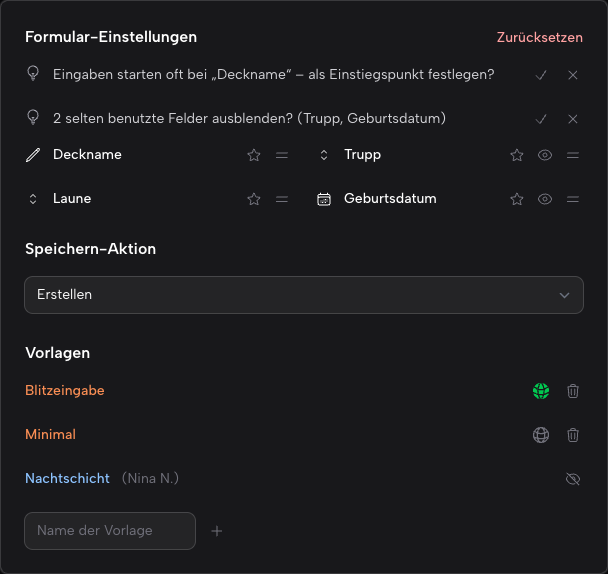
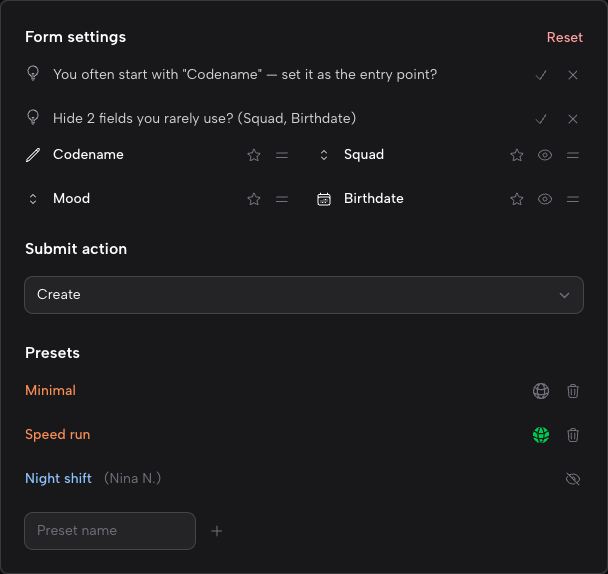
English README screenshot; restore optIn comment wording

diff --git a/README.md b/README.md
@@ -22,7 +22,7 @@ use Blemli\FormSettings\FormSettingsPlugin;
 
 $panel->plugin(
     FormSettingsPlugin::make()
-        ->optIn()      // dont show the gear anywhere except on Pages with the HasFormSettings Trait (default: everywhere)
+        ->optIn()      // dont show the gear anywhere except on Pages with the HasFormSettings Trait
         ->persist()    // … settings per user in the DB instead of the session
         ->presets()    // … named presets
         ->publish([Profanity::make()])  // … users can share presets with ohters (requires persist(); you can validate the name)
